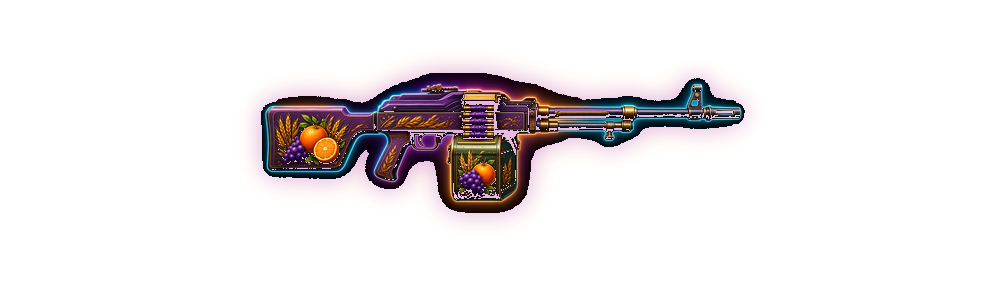
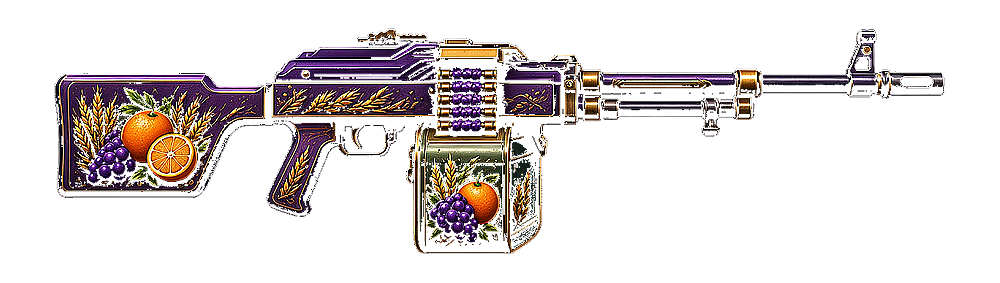
PKM patch: sharp redraw, no baked blur, minimal CSS glow

Changed region(s): [[0.031, 0.0848, 0.961, 0.9046]]

diff --git a/src/app/globals.css b/src/app/globals.css
@@ -1602,11 +1602,12 @@ body:has(.tm-sapper-page) {
 .nick-patch-mark[data-patch-id="creator-event-pkm-harvest"]
   .nick-patch-mark-art {
   transform: scaleX(-1);
-  opacity: 0.96;
+  opacity: 1;
+  /* минимальный ореол — иначе мелкий арт «мылится» */
   filter:
-    drop-shadow(0 0 2px rgba(170, 120, 255, 0.55))
-    drop-shadow(0 0 6px rgba(255, 150, 55, 0.28)) !important;
-  animation: event-pkm-harvest-glow 3.6s ease-in-out infinite !important;
+    drop-shadow(0 0 1px rgba(170, 120, 255, 0.4))
+    drop-shadow(0 0 3px rgba(255, 150, 55, 0.18)) !important;
+  animation: none !important;
 }
 .nick-patch-mark[data-patch-id="creator-event-pkm-harvest"]:hover
   .nick-patch-mark-art,
@@ -1617,25 +1618,10 @@ body:has(.tm-sapper-page) {
   animation: none !important;
   transform: scaleX(-1) scale(1.08);
   filter:
-    drop-shadow(0 0 3px rgba(190, 150, 255, 0.75))
-    drop-shadow(0 0 9px rgba(255, 160, 60, 0.45))
-    brightness(1.08) !important;
+    drop-shadow(0 0 2px rgba(190, 150, 255, 0.55))
+    drop-shadow(0 0 5px rgba(255, 160, 60, 0.28))
+    brightness(1.05) !important;
   opacity: 1;
-}
-@keyframes event-pkm-harvest-glow {
-  0%,
-  100% {
-    filter:
-      drop-shadow(0 0 2px rgba(170, 120, 255, 0.48))
-      drop-shadow(0 0 5px rgba(255, 150, 55, 0.22));
-    opacity: 0.94;
-  }
-  50% {
-    filter:
-      drop-shadow(0 0 3px rgba(185, 140, 255, 0.62))
-      drop-shadow(0 0 7px rgba(255, 155, 55, 0.32));
-    opacity: 1;
-  }
 }
 
 .nick-patch-mark[data-patch-id="creator-orange-phantom"] {

diff --git a/src/app/profile-v2.css b/src/app/profile-v2.css
@@ -1426,9 +1426,9 @@ body.has-profile-bg .shell:has(.profile-page) {
   /* канон: ствол влево */
   transform: scaleX(-1);
   filter:
-    drop-shadow(0 0 2px rgba(170, 120, 255, 0.5))
-    drop-shadow(0 0 6px rgba(255, 150, 55, 0.25));
-  animation: event-pkm-harvest-tile-glow 3.6s ease-in-out infinite;
+    drop-shadow(0 0 1px rgba(170, 120, 255, 0.35))
+    drop-shadow(0 0 3px rgba(255, 150, 55, 0.16));
+  animation: none;
   transition: filter 0.15s ease, transform 0.15s ease;
 }
 .profile-patch-tile[data-patch-id="creator-event-pkm-harvest"]:hover
@@ -1440,22 +1440,9 @@ body.has-profile-bg .shell:has(.profile-page) {
   animation: none;
   transform: scaleX(-1) scale(1.06);
   filter:
-    drop-shadow(0 0 3px rgba(190, 150, 255, 0.72))
-    drop-shadow(0 0 9px rgba(255, 160, 60, 0.42))
-    brightness(1.06);
-}
-@keyframes event-pkm-harvest-tile-glow {
-  0%,
-  100% {
-    filter:
-      drop-shadow(0 0 2px rgba(170, 120, 255, 0.45))
-      drop-shadow(0 0 5px rgba(255, 150, 55, 0.2));
-  }
-  50% {
-    filter:
-      drop-shadow(0 0 3px rgba(185, 140, 255, 0.58))
-      drop-shadow(0 0 7px rgba(255, 155, 55, 0.3));
-  }
+    drop-shadow(0 0 2px rgba(190, 150, 255, 0.5))
+    drop-shadow(0 0 5px rgba(255, 160, 60, 0.26))
+    brightness(1.04);
 }
 
 .profile-patch-tile[data-patch-id="creator-orange-phantom"]

diff --git a/src/lib/profilePatches.ts b/src/lib/profilePatches.ts
@@ -96,7 +96,7 @@ export function profilePatchUrl(
     id === "hw2-knife-hook" || id === "hw2-ak-pumpkin"
       ? "?v=blood1"
       : id === "creator-event-pkm-harvest"
-        ? "?v=vis3"
+        ? "?v=sharp1"
         : "";
   return `/bp-assets/${opt.file}${bust}`;
 }
